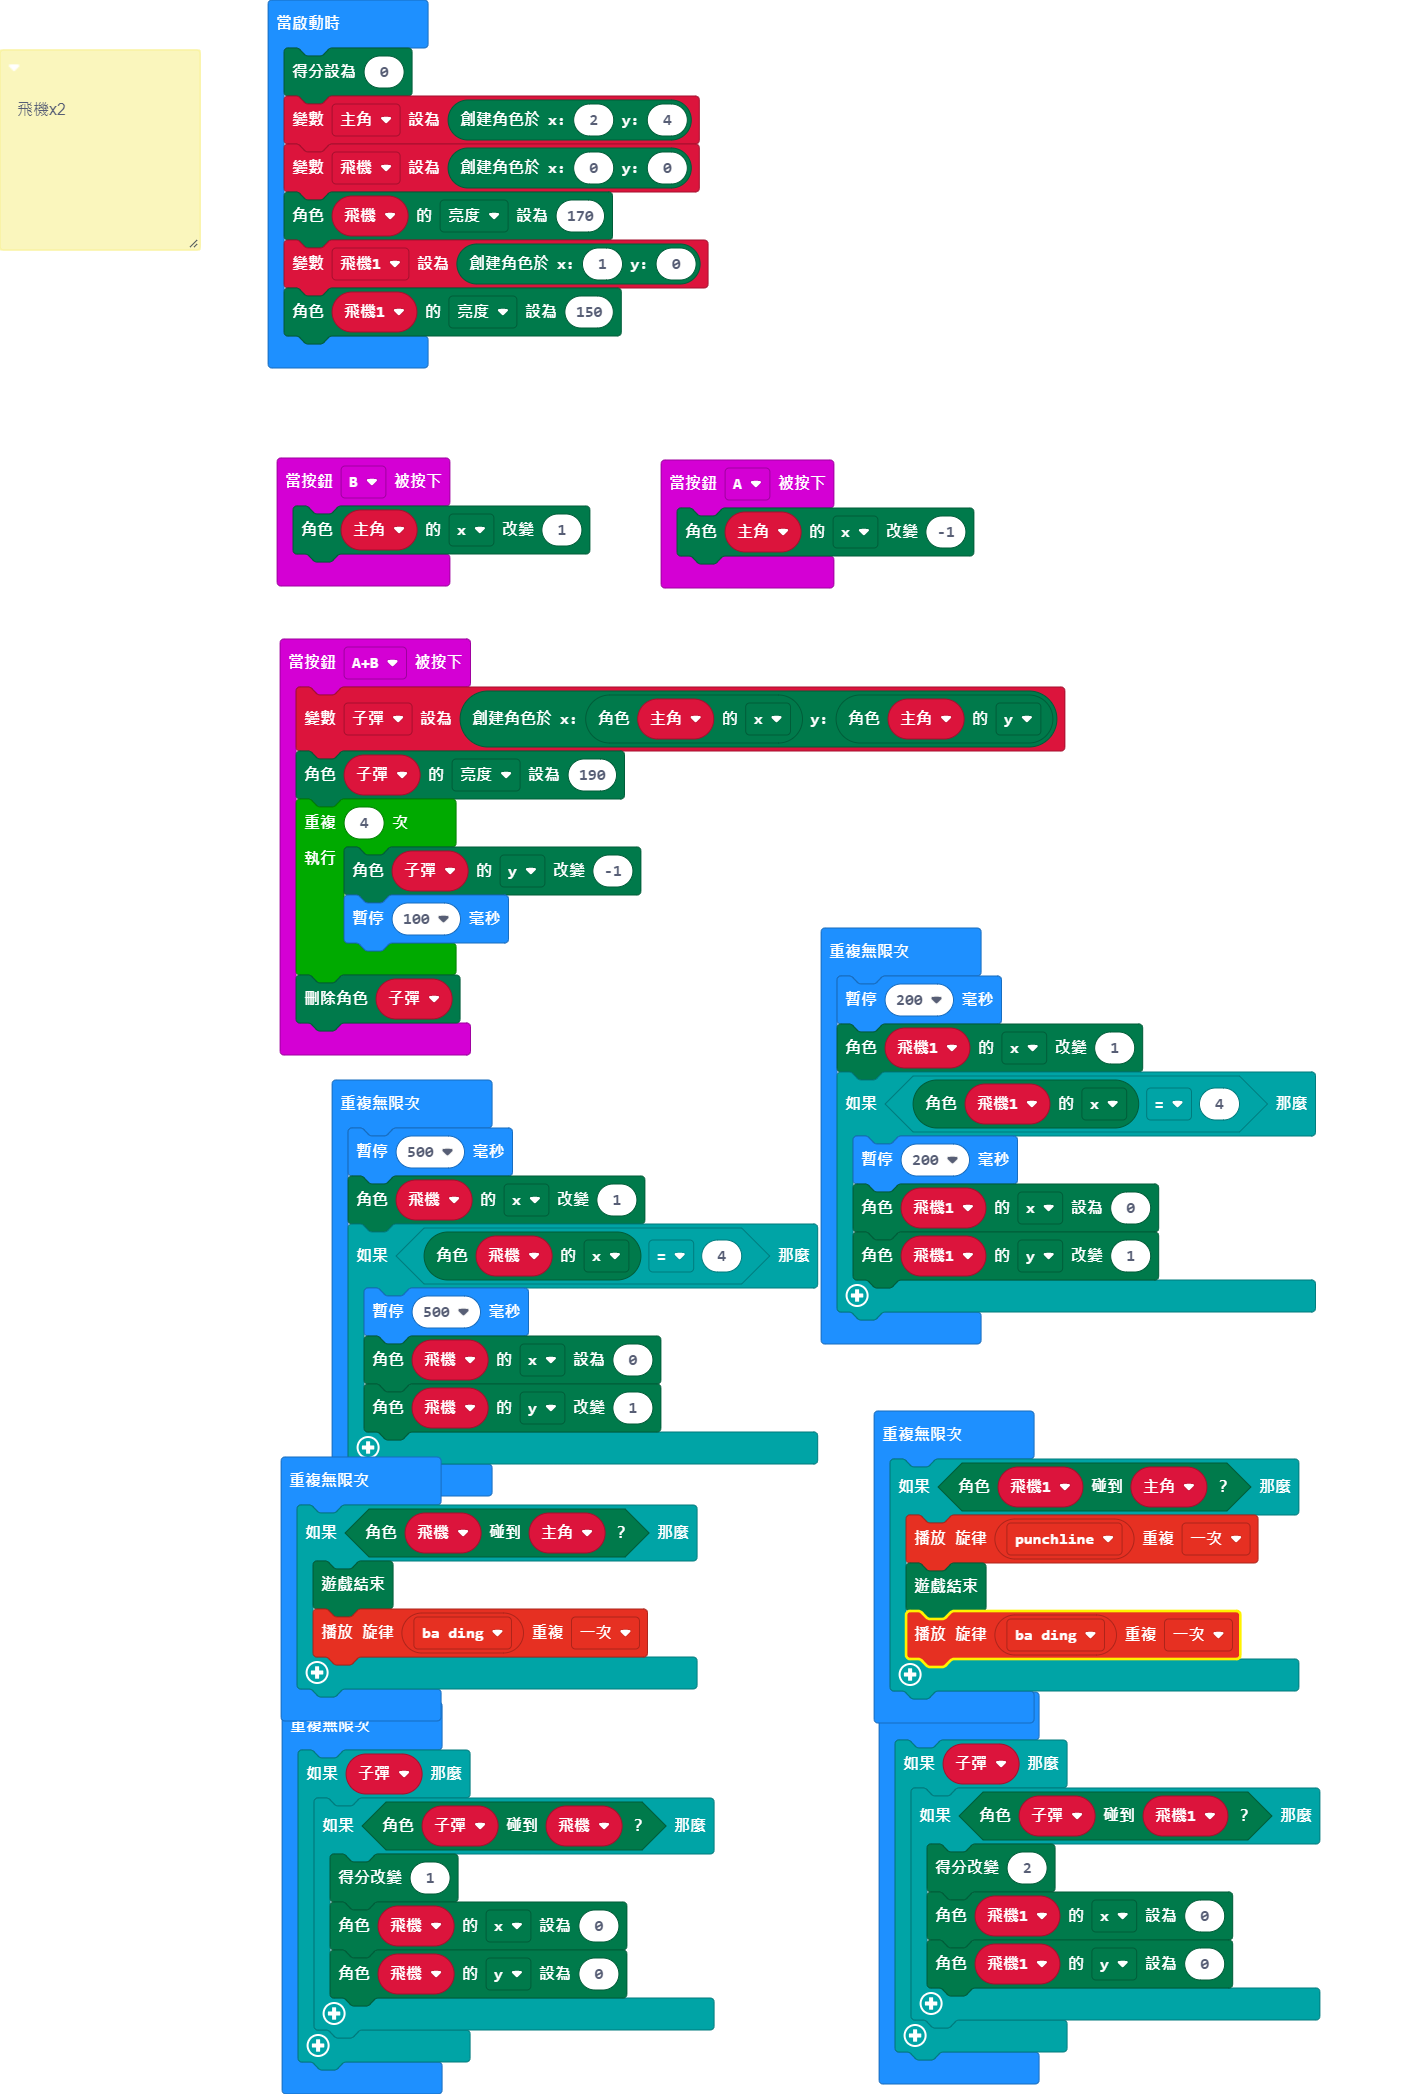
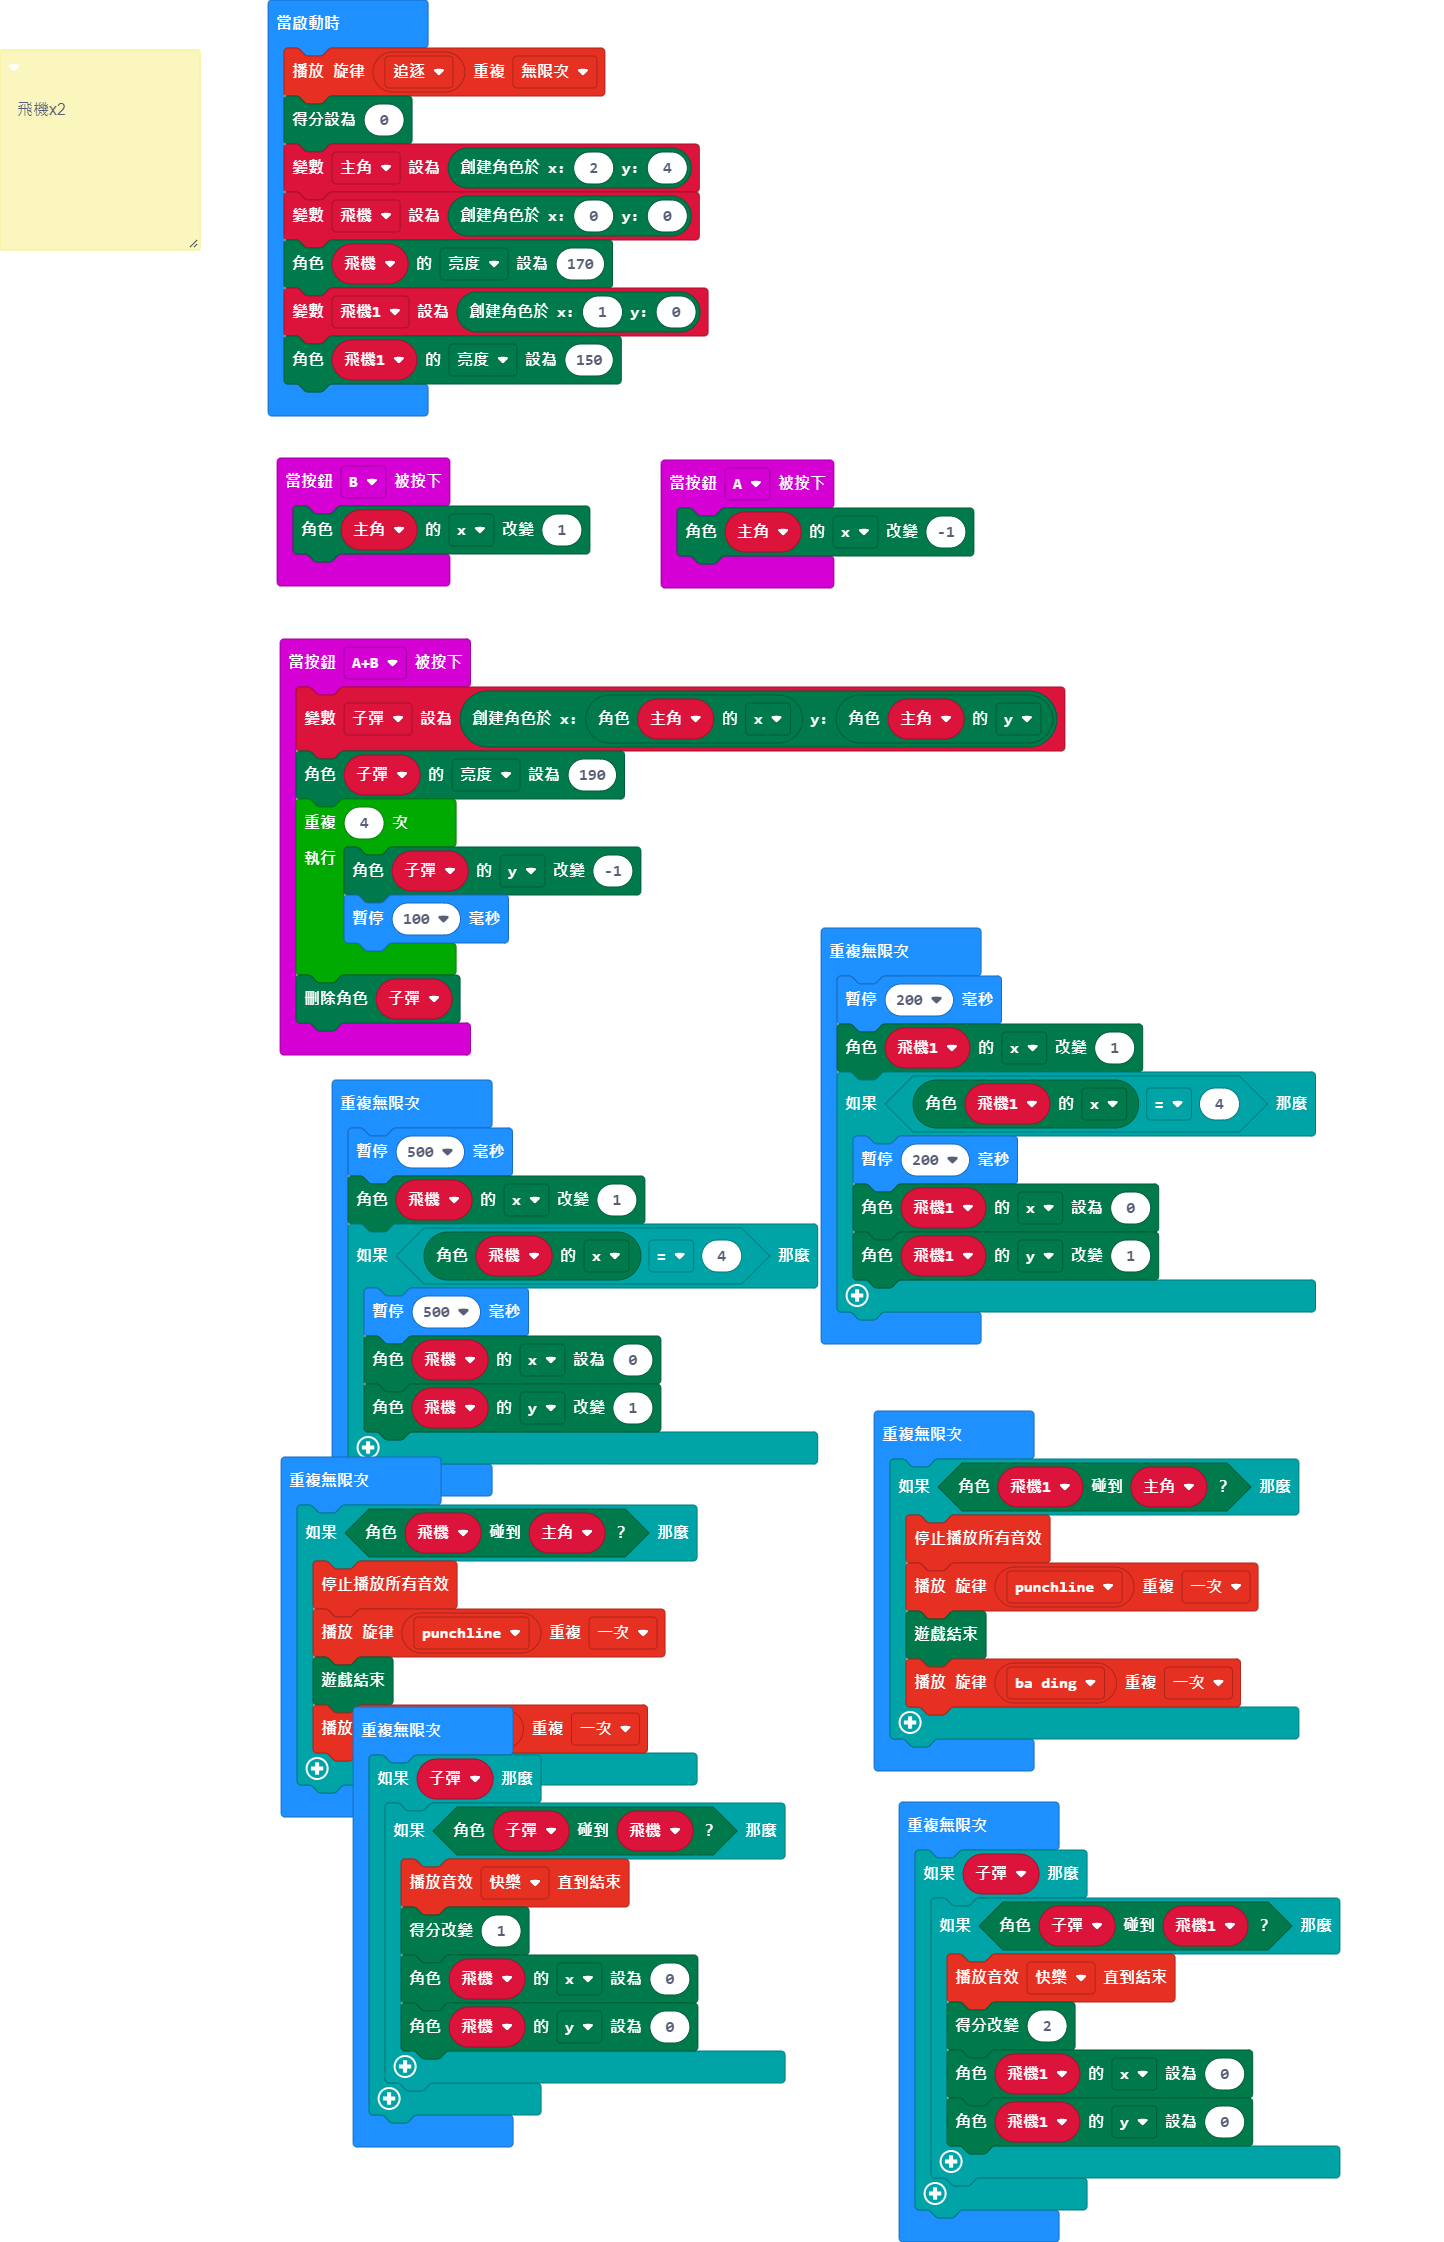
更新 main.blocks, main.ts

diff --git a/main.ts b/main.ts
@@ -18,6 +18,7 @@ input.onButtonPressed(Button.B, function () {
 })
 let 子彈: game.LedSprite = null
 let 主角: game.LedSprite = null
+music.startMelody(music.builtInMelody(Melodies.Chase), MelodyOptions.Forever)
 game.setScore(0)
 主角 = game.createSprite(2, 4)
 let 飛機 = game.createSprite(0, 0)
@@ -44,6 +45,7 @@ basic.forever(function () {
 })
 basic.forever(function () {
     if (飛機1.isTouching(主角)) {
+        music.stopAllSounds()
         music.startMelody(music.builtInMelody(Melodies.Punchline), MelodyOptions.Once)
         game.gameOver()
         music.startMelody(music.builtInMelody(Melodies.BaDing), MelodyOptions.Once)
@@ -51,6 +53,8 @@ basic.forever(function () {
 })
 basic.forever(function () {
     if (飛機.isTouching(主角)) {
+        music.stopAllSounds()
+        music.startMelody(music.builtInMelody(Melodies.Punchline), MelodyOptions.Once)
         game.gameOver()
         music.startMelody(music.builtInMelody(Melodies.BaDing), MelodyOptions.Once)
     }
@@ -58,6 +62,7 @@ basic.forever(function () {
 basic.forever(function () {
     if (子彈) {
         if (子彈.isTouching(飛機)) {
+            soundExpression.happy.playUntilDone()
             game.addScore(1)
             飛機.set(LedSpriteProperty.X, 0)
             飛機.set(LedSpriteProperty.Y, 0)
@@ -67,6 +72,7 @@ basic.forever(function () {
 basic.forever(function () {
     if (子彈) {
         if (子彈.isTouching(飛機1)) {
+            soundExpression.happy.playUntilDone()
             game.addScore(2)
             飛機1.set(LedSpriteProperty.X, 0)
             飛機1.set(LedSpriteProperty.Y, 0)
